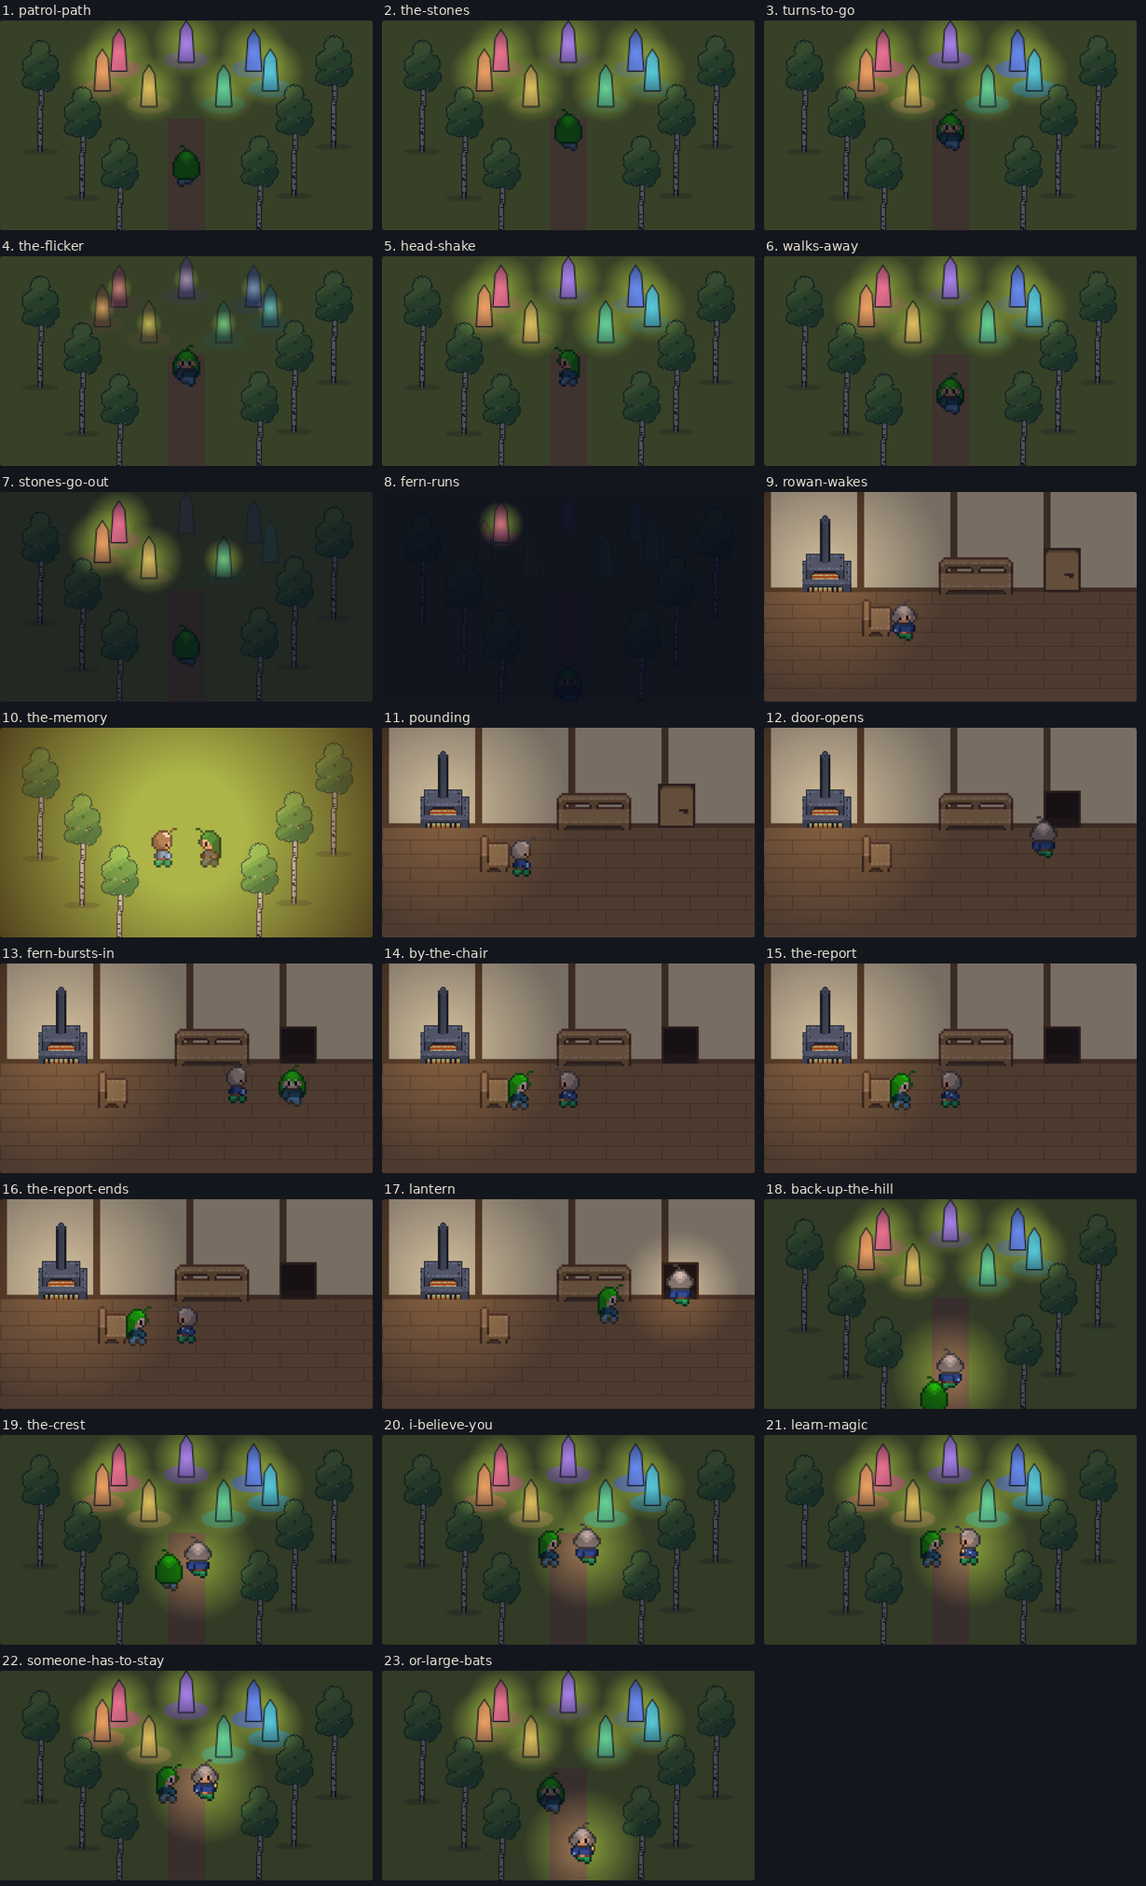
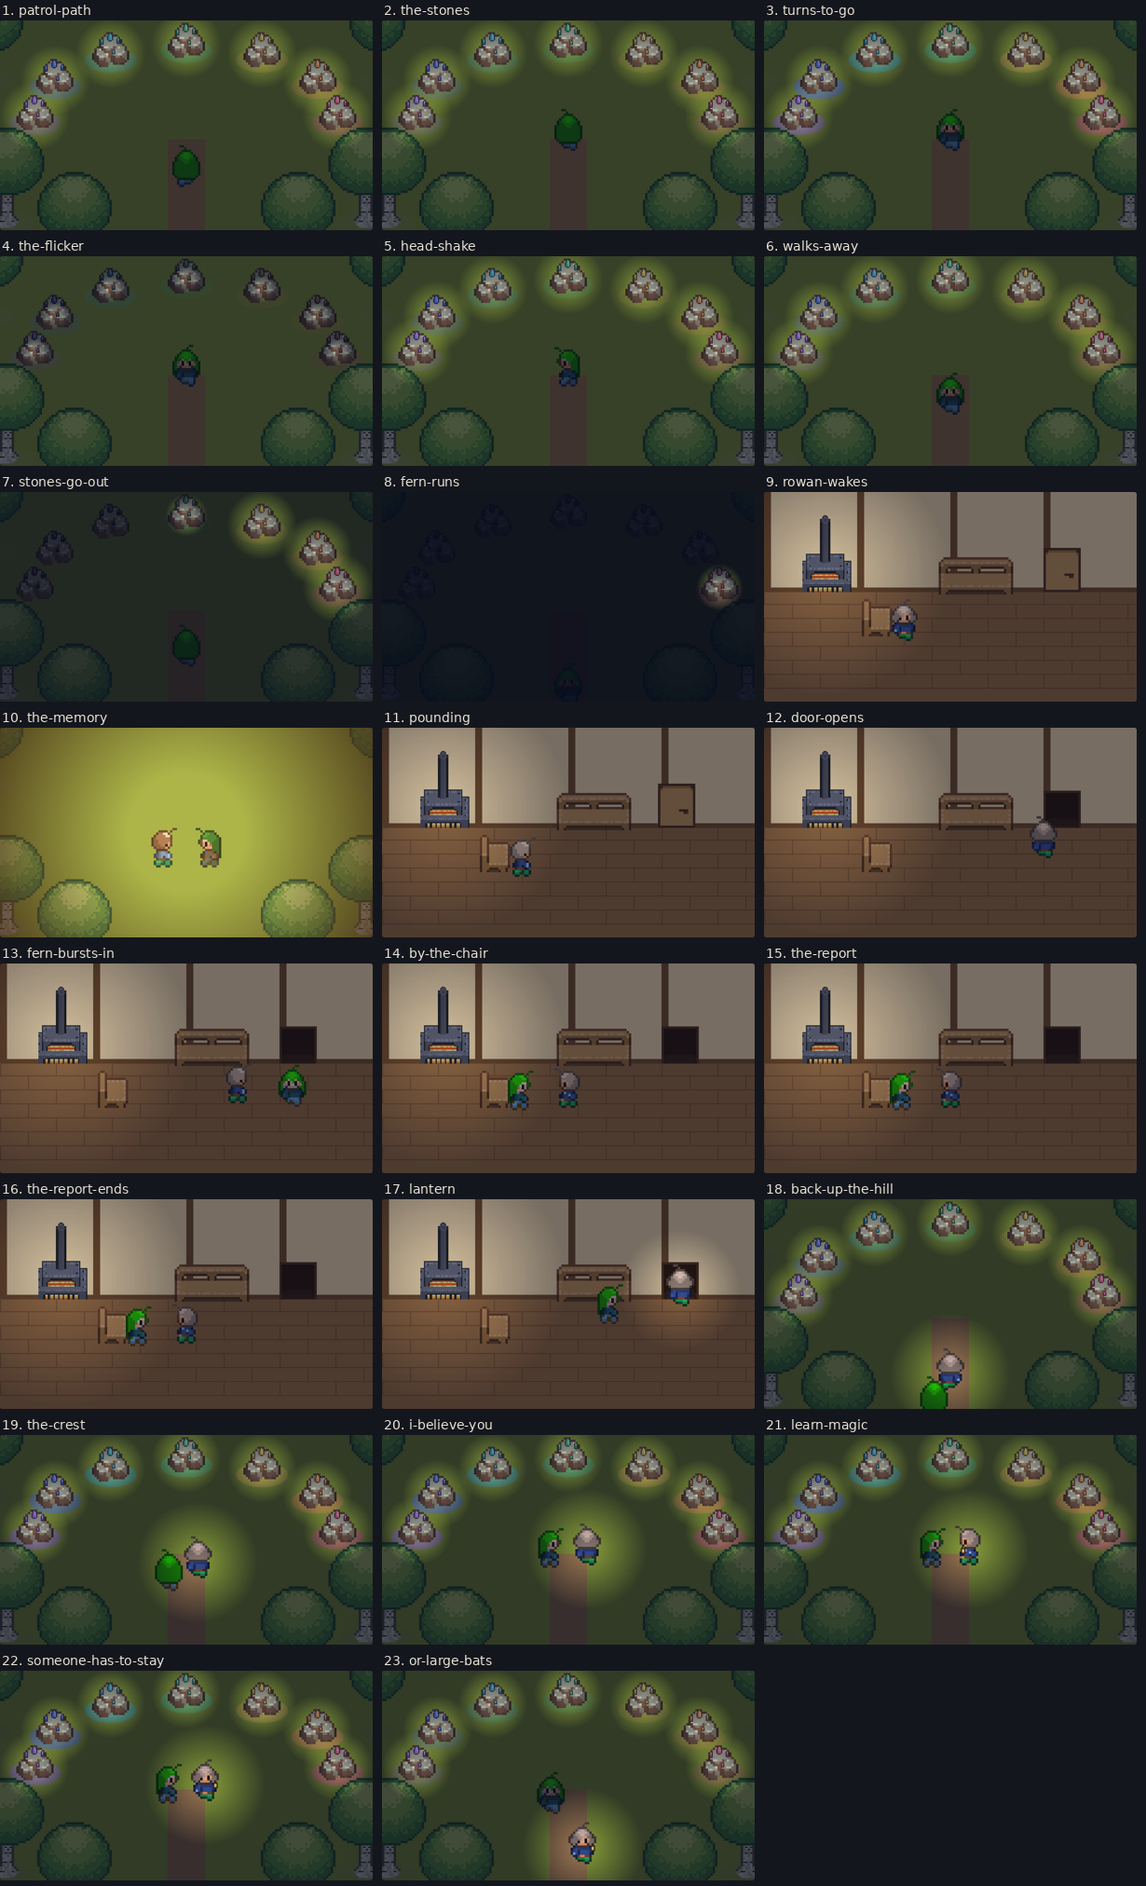
Story scenes: crystal-set stones, pack-style birches, horseshoe layout
Replace the pillar stones with the pack's boulder set with small
crystals of each colour, lit or dark, drawn the same way on the
overworld and in scenes. Rebuild the birch from the pack's own tree with
a single trunk. Stand the stones in a horseshoe open to the path so none
overlap or dominate, going out in a sweep from violet to red.

Claude-Session: https://claude.ai/code/session_01VJw4AQ3NNKTqwCh5BzdA5h

diff --git a/src/ui/cinematicView.ts b/src/ui/cinematicView.ts
@@ -11,7 +11,6 @@ import {
 } from '../game/cinematic';
 import type { Atlas } from './art/atlas';
 import { isCreatureId, mapFrame } from './art/creatures';
-import { ELEMENT_COLOR_OF } from './art/feedback';
 import type { Region } from './art/images';
 import { PROP_ATLAS } from './art/propAtlas';
 import { drawStandingStone } from './standingStone';
@@ -21,7 +20,7 @@ export const STAGE_HEIGHT = 180;
 
 const GRASS: Region = { image: 'grasslands', x: 32, y: 0, w: 32, h: 32 };
 const PATH: Region = { image: 'grasslands', x: 224, y: 0, w: 32, h: 32 };
-const BIRCH: Region = { image: 'story.birch', x: 0, y: 0, w: 48, h: 104 };
+const BIRCH: Region = { image: 'story.birch', x: 0, y: 0, w: 64, h: 92 };
 const DOOR_SHUT: Region = { image: 'village', x: 0, y: 280, w: 32, h: 38 };
 const DOOR_OPEN: Region = { image: 'village', x: 0, y: 466, w: 32, h: 38 };
 const CHAIR: Region = { image: 'village', x: 0, y: 128, w: 32, h: 40 };
@@ -31,24 +30,28 @@ const STOVE: Region = { image: 'props', x: stoveX, y: stoveY, w: stoveW, h: stov
 
 /** Birches lining the path up the hill: base position on the stage. */
 const BIRCHES: readonly (readonly [number, number])[] = [
-  [34, 112],
-  [286, 108],
-  [70, 152],
-  [252, 150],
-  [102, 196],
-  [222, 194],
+  [-12, 58],
+  [332, 58],
+  [6, 180],
+  [314, 180],
+  [64, 218],
+  [256, 218],
 ];
-/** The ring of stones on the hilltop, seen from the path. */
-const RING = { x: 160, y: 58, rx: 74, ry: 20 } as const;
+/** The stones stand in a horseshoe on the hilltop, open toward the path up the hill. */
+const RING = { x: 160, y: 94, rx: 130, ry: 62 } as const;
 /** The house: the back wall meets the floor here, and the door and stove stand on that line. */
 const WALL_FOOT = 86;
 const DOOR_X = 256;
 const STOVE_X = 54;
 
-/** Where each stone's base is, back of the ring first so nearer stones overlap it. */
+/**
+ * Where each stone's base is: spread evenly round the top half of the horseshoe, violet at the left
+ * end and red at the right, back stones first so nearer ones overlap them.
+ */
 function stonePositions(): { x: number; y: number; index: number }[] {
+  const last = STONE_ORDER.length - 1;
   return STONE_ORDER.map((_, index) => {
-    const angle = -Math.PI / 2 + (index * 2 * Math.PI) / STONE_ORDER.length;
+    const angle = Math.PI + (index * Math.PI) / last;
     return {
       x: RING.x + Math.cos(angle) * RING.rx,
       y: RING.y + Math.sin(angle) * RING.ry,
@@ -97,24 +100,17 @@ export class CinematicView {
     for (let y = 0; y < STAGE_HEIGHT; y += 32)
       for (let x = 0; x < STAGE_WIDTH; x += 32) this.atlas.draw(this.ctx, GRASS, x, y);
     if (shot.setting === 'hill') {
-      for (let y = RING.y + RING.ry + 6; y < STAGE_HEIGHT; y += 32)
-        this.atlas.draw(this.ctx, PATH, 144, y);
+      for (let y = RING.y + 8; y < STAGE_HEIGHT; y += 32) this.atlas.draw(this.ctx, PATH, 144, y);
       const stones = shot.stones;
       if (stones)
         for (const { x, y, index } of stonePositions()) {
           const light = sample(stones[index] ?? [], t);
-          drawStandingStone(
-            this.ctx,
-            x,
-            y,
-            ELEMENT_COLOR_OF[STONE_ORDER[index] ?? 'arcane'],
-            light,
-            t,
-          );
-          if (light > 0) lights.push({ x, y: y - 18, radius: 30 * light });
+          const element = STONE_ORDER[index] ?? 'arcane';
+          drawStandingStone(this.ctx, this.atlas, x, y, element, light, t);
+          if (light > 0) lights.push({ x, y: y - 12, radius: 30 * light });
         }
     }
-    for (const [x, y] of BIRCHES) this.atlas.draw(this.ctx, BIRCH, x - 24, y - 100);
+    for (const [x, y] of BIRCHES) this.atlas.draw(this.ctx, BIRCH, x - 32, y - 88);
   }
 
   private drawHouse(shot: CinematicShot, t: number, lights: Light[]): void {

diff --git a/src/ui/standingStone.ts b/src/ui/standingStone.ts
@@ -1,37 +1,49 @@
-/** The standing mana crystals of Sevenstones, drawn the same way on the overworld and in story scenes. */
-import { TILE } from './art/themes';
+/** The standing stones of Sevenstones, drawn the same way on the overworld and in story scenes. */
+import { STONE_ORDER, type StoneElement } from '../game/cinematic';
+import type { Atlas } from './art/atlas';
+import { ELEMENT_COLOR_OF } from './art/feedback';
+
+/** Each stone's cell in the `story.stones` sheet. */
+const STONE_W = 32;
+const STONE_H = 30;
 
 /**
- * Draws one standing stone with its base at (px, py). `light` runs from 0 (dark: a dull, half
- * transparent crystal) to 1 (lit: solid, with a pulsing glow on the ground around it).
+ * Draws one stone, a boulder with small crystals of its colour set in it, with its base at
+ * (px, py). `light` runs from 0 (dark crystals) to 1 (lit crystals with a pulsing glow).
  */
 export function drawStandingStone(
   ctx: CanvasRenderingContext2D,
+  atlas: Atlas,
   px: number,
   py: number,
-  color: string,
+  element: StoneElement,
   light: number,
   timeMs: number,
 ): void {
+  const column = STONE_ORDER.indexOf(element);
+  const x = Math.round(px - STONE_W / 2);
+  const y = Math.round(py - STONE_H);
   ctx.save();
   if (light > 0) {
-    ctx.globalAlpha = light * (0.5 + 0.25 * Math.sin(timeMs / 300));
-    ctx.fillStyle = color;
+    ctx.globalAlpha = light * (0.45 + 0.2 * Math.sin(timeMs / 300));
+    ctx.fillStyle = ELEMENT_COLOR_OF[element];
     ctx.beginPath();
-    ctx.ellipse(px, py - 4, TILE * 0.6, TILE * 0.25, 0, 0, Math.PI * 2);
+    ctx.ellipse(px, py - 6, STONE_W * 0.7, STONE_H * 0.35, 0, 0, Math.PI * 2);
     ctx.fill();
   }
-  ctx.globalAlpha = 0.45 + 0.55 * light;
-  ctx.fillStyle = color;
-  ctx.beginPath();
-  ctx.moveTo(px - 7, py - 2);
-  ctx.lineTo(px - 5, py - 30);
-  ctx.lineTo(px, py - 38);
-  ctx.lineTo(px + 5, py - 30);
-  ctx.lineTo(px + 7, py - 2);
-  ctx.closePath();
-  ctx.fill();
-  ctx.strokeStyle = '#1a1a26';
-  ctx.stroke();
+  ctx.globalAlpha = 1;
+  const cell = (row: number) =>
+    ({
+      image: 'story.stones',
+      x: column * STONE_W,
+      y: row * STONE_H,
+      w: STONE_W,
+      h: STONE_H,
+    }) as const;
+  atlas.draw(ctx, cell(1), x, y);
+  if (light > 0) {
+    ctx.globalAlpha = light;
+    atlas.draw(ctx, cell(0), x, y);
+  }
   ctx.restore();
 }

diff --git a/src/ui/art/images.ts b/src/ui/art/images.ts
@@ -32,7 +32,9 @@ export const IMAGES = {
   'story.rowan-lantern': { src: 'story/rowan-coat-lantern.png', width: 192, height: 192 },
   'story.rowan-young': { src: 'story/rowan-young.png', width: 192, height: 192 },
   'story.bracken': { src: 'story/bracken.png', width: 192, height: 192 },
-  'story.birch': { src: 'story/birch.png', width: 48, height: 104 },
+  'story.birch': { src: 'story/birch.png', width: 64, height: 92 },
+  /** The seven standing stones in `STONE_ORDER`: lit on the top row, dark beneath. */
+  'story.stones': { src: 'story/stones.png', width: 224, height: 60 },
   'enemy.001': { src: 'elvgames/enemies/001.png', width: 192, height: 240 },
   'enemy.001.large': { src: 'elvgames/enemies/001_large.png', width: 288, height: 360 },
   'enemy.009': { src: 'elvgames/enemies/009.png', width: 192, height: 240 },

diff --git a/src/ui/worldView.ts b/src/ui/worldView.ts
@@ -355,7 +355,7 @@ export class WorldView {
       const bright = nature ? nature.light > 0 : region !== null && regionFixed(state, region);
       const px = x * TILE - camX + TILE / 2;
       const py = y * TILE - camY + TILE;
-      drawStandingStone(ctx, px, py, ELEMENT_COLOR_OF[element], bright ? 1 : 0, timeMs);
+      drawStandingStone(ctx, this.atlas, px, py, element, bright ? 1 : 0, timeMs);
     });
   }
 

diff --git a/src/game/cinematic.ts b/src/game/cinematic.ts
@@ -48,6 +48,9 @@ export const STONE_ORDER = [
   'fire',
 ] as const;
 
+/** One of the seven stones, named by its school of magic. */
+export type StoneElement = (typeof STONE_ORDER)[number];
+
 export interface CinematicShot {
   readonly id: string;
   readonly setting: CinematicSetting;

diff --git a/tools/story-art/make_opening_sprites.py b/tools/story-art/make_opening_sprites.py
@@ -139,70 +139,89 @@ def add_lantern(sheet: Image.Image) -> Image.Image:
     return out
 
 
-# Birch colours: the pack's leaf ramp shifted lighter and yellower, and a pale banded trunk.
-LEAF = [rgb(32, 70, 44), rgb(66, 128, 62), rgb(104, 168, 70), rgb(150, 204, 84), rgb(204, 236, 120)]
-BARK_LIGHT, BARK_MID, BARK_SHADE = rgb(240, 236, 226), rgb(214, 208, 196), rgb(170, 164, 152)
-BARK_EDGE, BARK_MARK = rgb(70, 62, 56), rgb(36, 32, 30)
+# Birch: the pack's round tree with lighter, yellower leaves and white bark marked in black.
+BIRCH_LEAVES = [rgb(40, 86, 52), rgb(70, 140, 70), rgb(110, 176, 74), rgb(156, 206, 92), rgb(210, 236, 128)]
+# The pack trunk's four shades (by r + g + b), darkest to lightest, as birch bark.
+BIRCH_BARK = {213: rgb(92, 86, 80), 322: rgb(196, 192, 182), 422: rgb(230, 227, 218), 489: rgb(248, 246, 240)}
+BARK_MARK = rgb(46, 40, 38)
+# The pack sheet stacks a spare trunk piece under this tree; the tree itself ends at row 92.
+PACK_TREE = (0, 516, 64, 608)
 
 
 def _noise(x: int, y: int) -> int:
-    """Stable per-pixel noise, 0 to 99, so the tree is identical on every run."""
+    """Stable per-pixel noise, 0 to 99, so the art is identical on every run."""
     return (x * 73856093 ^ y * 19349663) % 100
 
 
+def _brightness(colour: Color) -> int:
+    return int(0.3 * colour[0] + 0.59 * colour[1] + 0.11 * colour[2])
+
+
 def birch_tree() -> Image.Image:
-    """A slender birch: pale trunk with dark marks under a tall, airy, yellow-green crown."""
-    w, h = 48, 104
-    tree = Image.new('RGBA', (w, h), (0, 0, 0, 0))
+    """The pack's single round tree, made a birch: same outline and shading, new colours."""
+    tree = Image.open(TILES / 'grasslands.png').convert('RGBA').crop(PACK_TREE)
     px = tree.load()
-
-    # Ground shadow, matching the pack's soft shadow.
-    for y in range(h - 7, h - 1):
-        for x in range(8, 40):
-            if ((x - 24) / 15) ** 2 + ((y - (h - 4)) / 3) ** 2 <= 1:
-                px[x, y] = (40, 40, 48, 60)
-
-    # Trunk: five pixels wide with a slight lean, marks on alternating sides, darker at the foot.
-    for y in range(40, h - 3):
-        cx = 22 + (1 if y < 62 else 0)
-        for i, colour in enumerate((BARK_EDGE, BARK_LIGHT, BARK_LIGHT, BARK_MID, BARK_EDGE)):
-            px[cx + i, y] = colour
-        if y >= h - 9:
-            px[cx + 1, y] = BARK_SHADE if _noise(cx, y) < 50 else BARK_MARK
-            px[cx + 3, y] = BARK_MARK
-        elif _noise(3, y) < 22:
-            start = 1 if _noise(5, y) < 50 else 2
-            px[cx + start, y] = BARK_MARK
-            px[cx + start + 1, y] = BARK_MARK
-
-    # Crown: overlapping clusters, taller than wide, with gaps the trunk shows through.
-    clusters = [(24, 14, 9, 10), (16, 26, 8, 9), (32, 25, 8, 9), (20, 40, 9, 8), (30, 42, 7, 7),
-                (24, 30, 7, 7), (13, 40, 5, 6), (36, 36, 5, 6)]
-    inside = set()
-    for cx, cy, rx, ry in clusters:
-        for y in range(cy - ry, cy + ry + 1):
-            for x in range(cx - rx, cx + rx + 1):
-                ragged = _noise(x, y) < 12 and ((x - cx) / rx) ** 2 + ((y - cy) / ry) ** 2 > 0.7
-                if ((x - cx) / rx) ** 2 + ((y - cy) / ry) ** 2 <= 1 and not ragged:
-                    inside.add((x, y))
-    for x, y in inside:
-        edge = any((x + dx, y + dy) not in inside for dx, dy in ((1, 0), (-1, 0), (0, 1), (0, -1)))
-        if edge:
-            px[x, y] = LEAF[0]
-            continue
-        # Light from the upper left in clean steps, with a checker dither where steps meet,
-        # matching the pack's tree shading.
-        light = 4.2 - (y / 52) * 3 - (x - 18) / 30
-        step = int(light)
-        if light - step > 0.75 and (x + y) % 2 == 0:
-            step += 1
-        px[x, y] = LEAF[max(1, min(4, step))]
-
-    # A couple of pale branches showing through the gaps in the crown.
-    for x, y in ((21, 33), (20, 34), (27, 35), (28, 36), (19, 46), (29, 47)):
-        if (x, y) in inside:
-            px[x, y] = BARK_MID
+    leaf_shades = sorted(
+        {_brightness(px[x, y]) for y in range(tree.height) for x in range(tree.width)
+         if px[x, y][3] > 200 and px[x, y][1] > px[x, y][0]}
+    )
+    for y in range(tree.height):
+        for x in range(tree.width):
+            r, g, b, a = px[x, y]
+            if a <= 200:
+                continue  # the soft ground shadow stays as it is
+            if g > r:
+                step = leaf_shades.index(_brightness(px[x, y])) * 5 // len(leaf_shades)
+                px[x, y] = BIRCH_LEAVES[step][:3] + (a,)
+            else:
+                bark = BIRCH_BARK.get(r + g + b, BIRCH_BARK[422])
+                marked = r + g + b >= 422 and _noise(3, y) < 18 and _noise(x // 2, y) < 55
+                px[x, y] = (BARK_MARK if marked else bark)[:3] + (a,)
     return tree
+
+
+# The seven stones: the pack's round boulder with small crystals of each stone's colour set in it.
+STONE_HEX = ['#bd91ff', '#7296ff', '#61d9e8', '#72e6a2', '#f6d365', '#ffad69', '#ff7c9b']
+PACK_ROCK = (0, 192, 32, 222)
+# Crystal shapes: o outline, m body, l light face, h highlight.
+BIG_CRYSTAL = ['..o..', '.olo.', '.ohlo', 'omllo', 'omlho', 'ommlo', 'ommlo', '.ooo.']
+SMALL_CRYSTAL = ['.o.', 'olo', 'oho', 'omo', 'omo', 'ooo']
+CHIP = ['.o.', 'olo', 'omo', 'ooo']
+# Where each crystal sits on the boulder (top-left of its shape).
+CRYSTALS = [(BIG_CRYSTAL, 13, 0), (SMALL_CRYSTAL, 7, 5), (SMALL_CRYSTAL, 21, 4), (CHIP, 17, 15)]
+
+
+def _crystal_ramp(hex_colour: str, lit: bool) -> dict[str, Color]:
+    r, g, b = (int(hex_colour[i : i + 2], 16) for i in (1, 3, 5))
+    if not lit:  # a dark stone: the crystals dull to a dim grey tint of their colour
+        grey = (r + g + b) // 3
+        r, g, b = ((v + grey * 2) // 3 * 45 // 100 for v in (r, g, b))
+    mix = lambda v, k: min(255, int(v + (255 - v) * k))  # noqa: E731
+    return {
+        'o': rgb(r * 35 // 100, g * 35 // 100, b * 42 // 100),
+        'm': rgb(r * 80 // 100, g * 80 // 100, b * 85 // 100),
+        'l': rgb(r, g, b),
+        'h': rgb(mix(r, 0.6), mix(g, 0.6), mix(b, 0.6)),
+    }
+
+
+def standing_stones() -> Image.Image:
+    """A sheet of the seven stones in STONE_ORDER: lit on the top row, dark beneath."""
+    rock = Image.open(TILES / 'grasslands.png').convert('RGBA').crop(PACK_ROCK)
+    w, h = rock.size
+    sheet = Image.new('RGBA', (w * len(STONE_HEX), h * 2), (0, 0, 0, 0))
+    for row, lit in enumerate((True, False)):
+        for col, hex_colour in enumerate(STONE_HEX):
+            stone = rock.copy()
+            px = stone.load()
+            ramp = _crystal_ramp(hex_colour, lit)
+            for shape, ox, oy in CRYSTALS:
+                for dy, line in enumerate(shape):
+                    for dx, ch in enumerate(line):
+                        if ch in ramp:
+                            px[ox + dx, oy + dy] = ramp[ch]
+            sheet.alpha_composite(stone, (col * w, row * h))
+    return sheet
 
 
 def main() -> None:
@@ -229,6 +248,7 @@ def main() -> None:
     recolor(fern, bracken).save(OUT / 'bracken.png')
 
     birch_tree().save(OUT / 'birch.png')
+    standing_stones().save(OUT / 'stones.png')
 
 
 if __name__ == '__main__':

diff --git a/public/assets/story/README.md b/public/assets/story/README.md
@@ -6,12 +6,13 @@ changed.
 
 Regenerate with `python tools/story-art/make_opening_sprites.py` from the repository root.
 
-| File                     | Made from            | Change                                                                                             |
-| ------------------------ | -------------------- | -------------------------------------------------------------------------------------------------- |
-| `fern.png`               | `characters/026.png` | The everyday Fern: purple sleeve and orange leg matched to his outfit. Used in game as `char.026`. |
-| `rowan-coat.png`         | `characters/038.png` | Shirt and right sleeve recoloured navy.                                                            |
-| `rowan-coat-lantern.png` | `rowan-coat.png`     | Lit lantern held at the hand.                                                                      |
-| `rowan-young.png`        | `characters/038.png` | Grey hair recoloured brown; sleeve matched to shirt.                                               |
-| `fern-pale-muddy.png`    | `characters/026.png` | Paler skin, teal sleeve, both legs blue, mud on the cuffs and splashes.                            |
-| `bracken.png`            | `characters/026.png` | Darker green hair, leather top and sleeve, moss-green trousers.                                    |
-| `birch.png`              | Pack leaf palette    | Drawn new: pale marked trunk, airy crown.                                                          |
+| File                     | Made from              | Change                                                                                                           |
+| ------------------------ | ---------------------- | ---------------------------------------------------------------------------------------------------------------- |
+| `fern.png`               | `characters/026.png`   | The everyday Fern: purple sleeve and orange leg matched to his outfit. Used in game as `char.026`.               |
+| `rowan-coat.png`         | `characters/038.png`   | Shirt and right sleeve recoloured navy.                                                                          |
+| `rowan-coat-lantern.png` | `rowan-coat.png`       | Lit lantern held at the hand.                                                                                    |
+| `rowan-young.png`        | `characters/038.png`   | Grey hair recoloured brown; sleeve matched to shirt.                                                             |
+| `fern-pale-muddy.png`    | `characters/026.png`   | Paler skin, teal sleeve, both legs blue, mud on the cuffs and splashes.                                          |
+| `bracken.png`            | `characters/026.png`   | Darker green hair, leather top and sleeve, moss-green trousers.                                                  |
+| `birch.png`              | `tiles/grasslands.png` | The pack's round tree: lighter, yellower leaves; white bark with black marks.                                    |
+| `stones.png`             | `tiles/grasslands.png` | The seven standing stones: the pack's boulder with small crystals of each colour; lit row above, dark row below. |

diff --git a/docs/story-plans/AUTHOR_DECISIONS.md b/docs/story-plans/AUTHOR_DECISIONS.md
@@ -78,3 +78,12 @@ These replace earlier canon wherever they conflict, including World Bible WB-C16
 | Hareguy's dream  | He wants to be a hair stylist. Rowan never took it seriously. Canon.                                                                                                                                                                                                                                                                           |
 | The rift         | Never listed in full. Possible causes, any of which may surface in Hareguy's own words: Rowan not believing his mother, dismissing his dream, being more of a father to Fern, and putting his best friend's son first.                                                                                                                         |
 | Letter contents  | Never shown. The player sees only Hareguy read it and react.                                                                                                                                                                                                                                                                                   |
+
+## Round 5 — Look of the opening (8 November 2026)
+
+| Topic          | Decision                                                                                                                                      |
+| -------------- | --------------------------------------------------------------------------------------------------------------------------------------------- |
+| The stones     | Boulders in the pack's style with small crystals of each stone's colour set in them. They glow when lit and go dark rock when out.            |
+| Everywhere     | The overworld's stones use the same art as the story scenes.                                                                                  |
+| Hilltop layout | The stones stand in a horseshoe open toward the path; violet at the left end, red at the right, so they go out in a sweep from left to right. |
+| Birches        | The pack's own round tree recoloured as a birch, not drawn from scratch.                                                                      |
